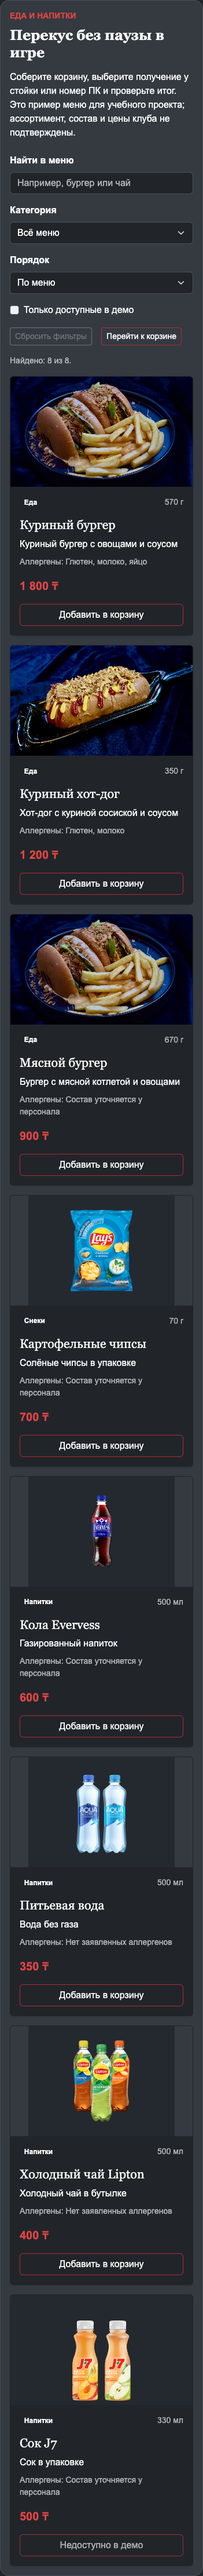
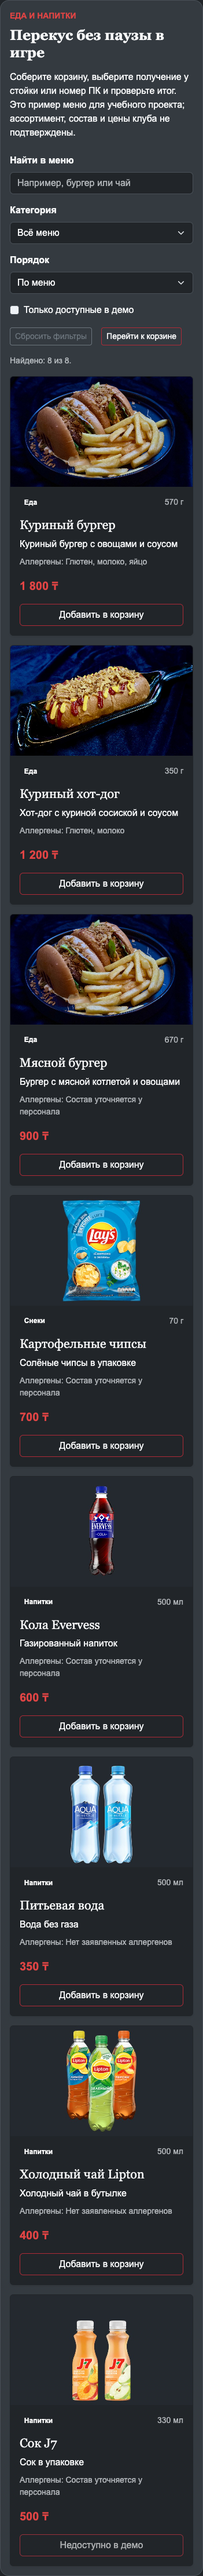
Fill every menu photo to the card edges

diff --git a/js/food.js b/js/food.js
@@ -199,7 +199,7 @@
         const column = el('div', 'col-12 col-md-6 col-lg-4');
         const article = el('article', 'card h-100 shadow-sm');
         article.dataset.foodId = item.id;
-        const photo = el('img', `card-img-top w-100 bg-white ${item.category === 'food' || item.id === 'cookie' ? 'object-fit-cover' : 'object-fit-contain'}`);
+        const photo = el('img', 'card-img-top w-100 bg-dark object-fit-cover');
         photo.src = item.image;
         photo.alt = item.imageAlt;
         photo.height = 190;

diff --git a/FOOD_PHOTO_CREDITS.md b/FOOD_PHOTO_CREDITS.md
@@ -1,6 +1,6 @@
 # Фотографии меню
 
-Фото взяты из витрины сети компьютерных клубов CyberX и карточки меню CyberX Lounge. Это иллюстрации учебного проекта, а не подтверждённое меню TOP GAME. Свободная лицензия не заявляется. Изображения сохранены локально. Фото блюд используются без добавленных полей и заполняют карточку через Bootstrap object-fit-cover; упаковки напитков и чипсов показаны целиком.
+Фото взяты из витрины сети компьютерных клубов CyberX и карточки меню CyberX Lounge. Это иллюстрации учебного проекта, а не подтверждённое меню TOP GAME. Свободная лицензия не заявляется. Изображения сохранены локально. Фото блюд используются без добавленных полей и заполняют карточку через Bootstrap object-fit-cover; фото напитков и чипсов также заполняют всю ширину через object-fit-cover; возможна обрезка по высоте.
 
 | Файл | Источник |
 | --- | --- |
